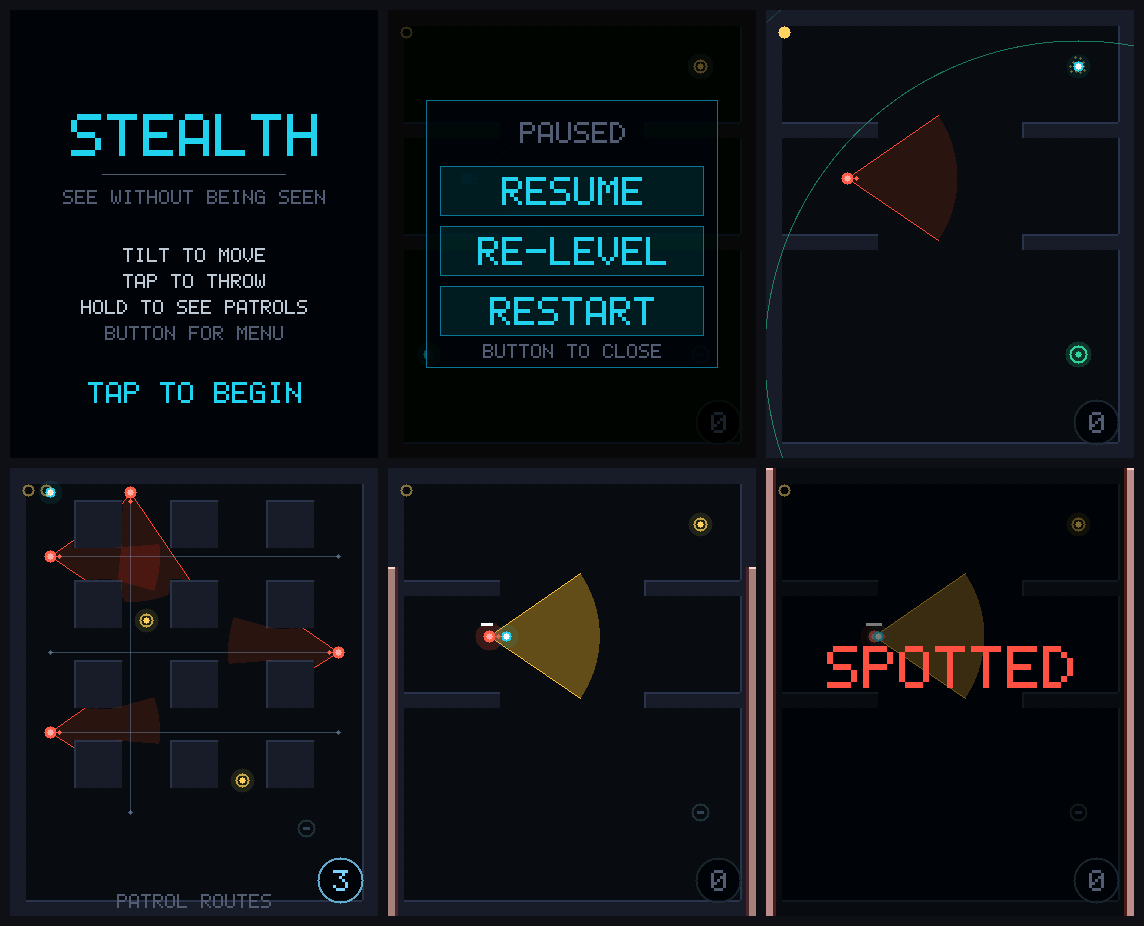
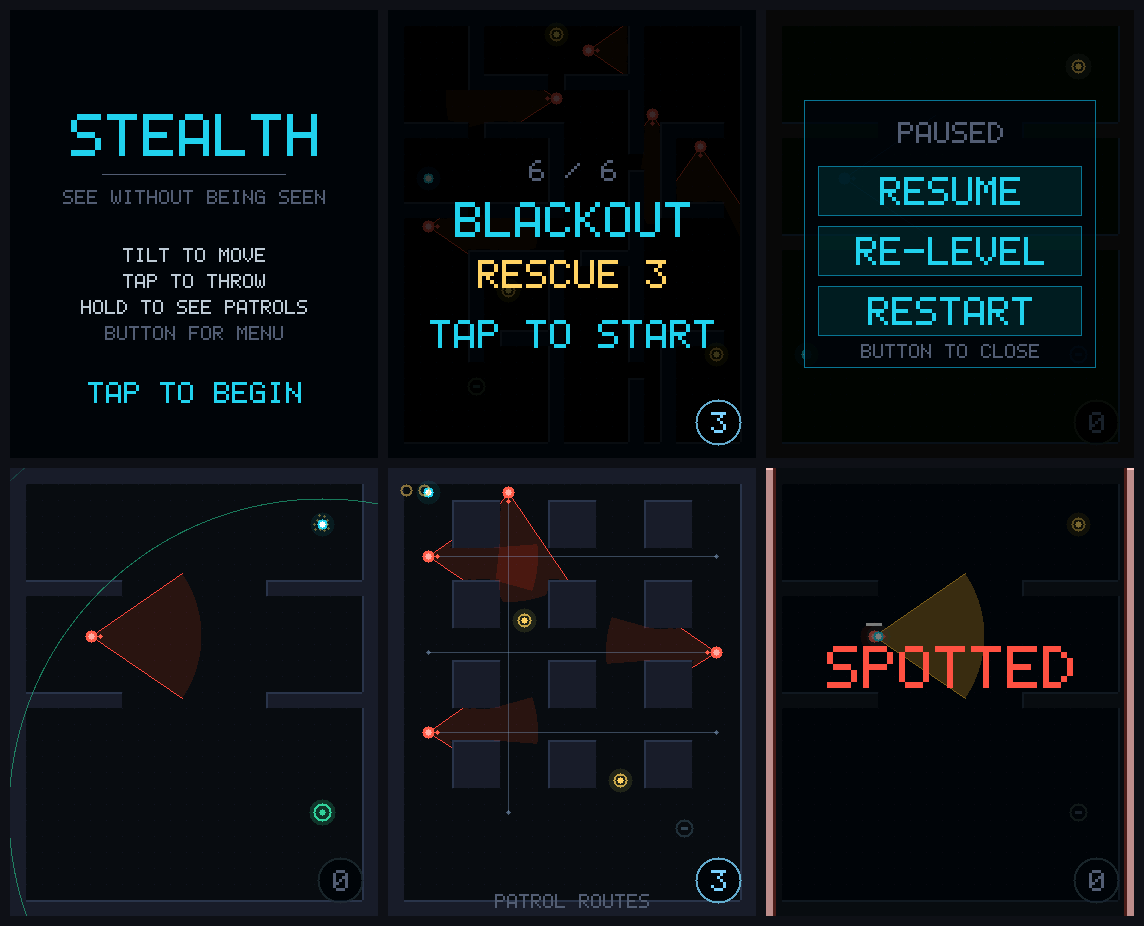
State the objective on the briefing instead of tracking it on the field
- Removed the hostage indicator from the top-left of the play field entirely
- The briefing now reads "RESCUE N" between the level name and the prompt,
  in the hostages' own colour so it names the thing you will be looking for

Checked across all six levels: 1, 1, 1, 2, 2, 3.

diff --git a/main/render.c b/main/render.c
@@ -312,8 +312,13 @@ static void draw_overlay(gfx_surf_t *s, const game_t *g)
         gfx_text_centered(s, PLAY_W / 2, 192, g->lvl->name, COL_PLAYER,
                           gfx_text_fit_scale(g->lvl->name, PLAY_W - 16, 5));
 
+        // The objective, in the hostages' own colour so it reads as the thing
+        // you are looking for once the level starts.
+        snprintf(buf, sizeof(buf), "RESCUE %d", g->hostage_count);
+        gfx_text_centered(s, PLAY_W / 2, 250, buf, COL_HOSTAGE, 4);
+
         if (fmodf(g->phase_t, 1.2f) < 0.7f) {
-            gfx_text_centered(s, PLAY_W / 2, 296, "TAP TO START", COL_PLAYER, 4);
+            gfx_text_centered(s, PLAY_W / 2, 310, "TAP TO START", COL_PLAYER, 4);
         }
         break;
     }

diff --git a/main/hud.c b/main/hud.c
@@ -223,14 +223,6 @@ void hud_render(gfx_surf_t *s, const game_t *g)
     if (g->phase != GS_TITLE && g->phase != GS_WIN) {
         char buf[32];
 
-        // Top-left: just the hostage tally. The level name is on the
-        // briefing screen; repeating it here only crowded the field.
-        for (int i = 0; i < g->hostage_count; i++) {
-            const int cx = 18 + i * 18, cy = 22;
-            if (i < g->rescued) gfx_fill_circle(s, cx, cy, 6, COL_HOSTAGE);
-            else                gfx_ring(s, cx, cy, 6, 2, COL_HOSTAGE, 16);
-        }
-
         // Bottom-right: bombs remaining. A readout, not a control - throwing
         // is a tap on the field now.
         const bool usable = (g->bombs_left > 0);
